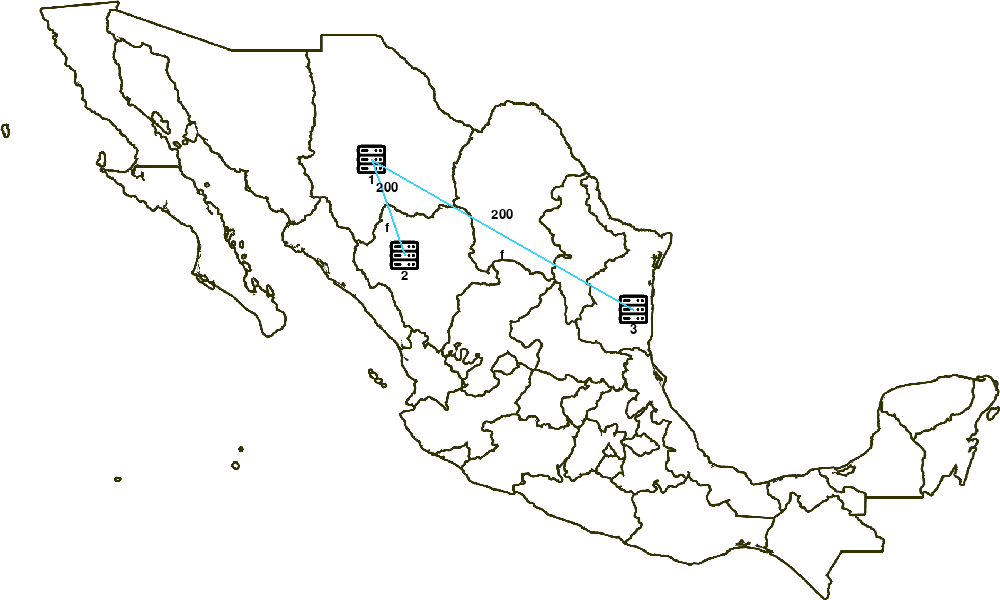
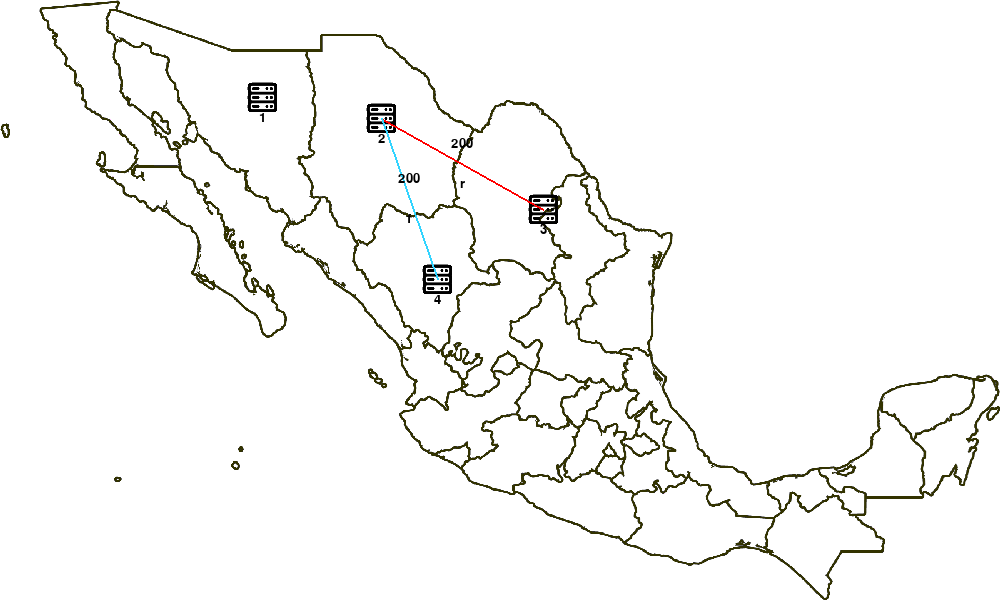
imagenes

diff --git a/pruebasInterfaz-4.py b/pruebasInterfaz-4.py
@@ -128,11 +128,21 @@ def guardarPNGmapa(guardarNodosConConexiones):
             window.blit(text_surface, text_rect)
         tipoImagen = 2
         pygame.image.save(window, "mapa_ConConexiones.png")  # Guardar la ventana como imagen
-        ventana.update()
+        # Cargar la imagen en un widget Label
+        nuevaImagen = Image.open("mapa_ConConexiones.png")
+        nuevaImagen = nuevaImagen.resize((750, 500))
+        nuevaImagen_tk = ImageTk.PhotoImage(nuevaImagen)
+        label_imagen.configure(image=nuevaImagen_tk)
+        label_imagen.image = nuevaImagen_tk
+        
     else:
         tipoImagen = 1
         pygame.image.save(window, "mapa_SinConexiones.png")  # Guardar la ventana como imagen
-        ventana.update()
+        nuevaImagen = Image.open("mapa_SinConexiones.png")
+        nuevaImagen = nuevaImagen.resize((750, 500))
+        nuevaImagen_tk = ImageTk.PhotoImage(nuevaImagen)
+        label_imagen.configure(image=nuevaImagen_tk)
+        label_imagen.image = nuevaImagen_tk      
     # Salir del juego
     pygame.quit()
 
